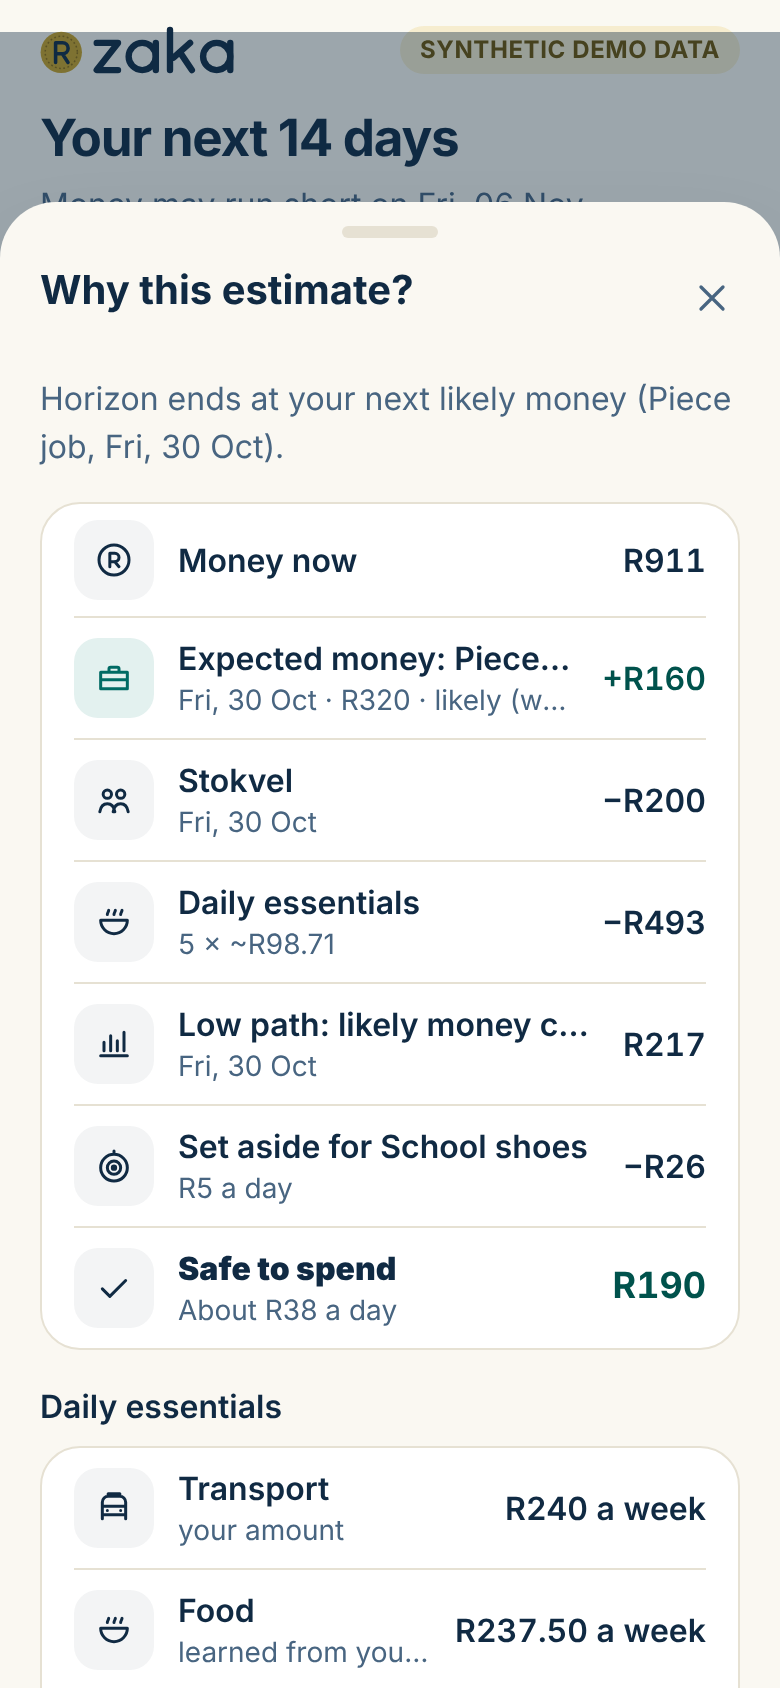
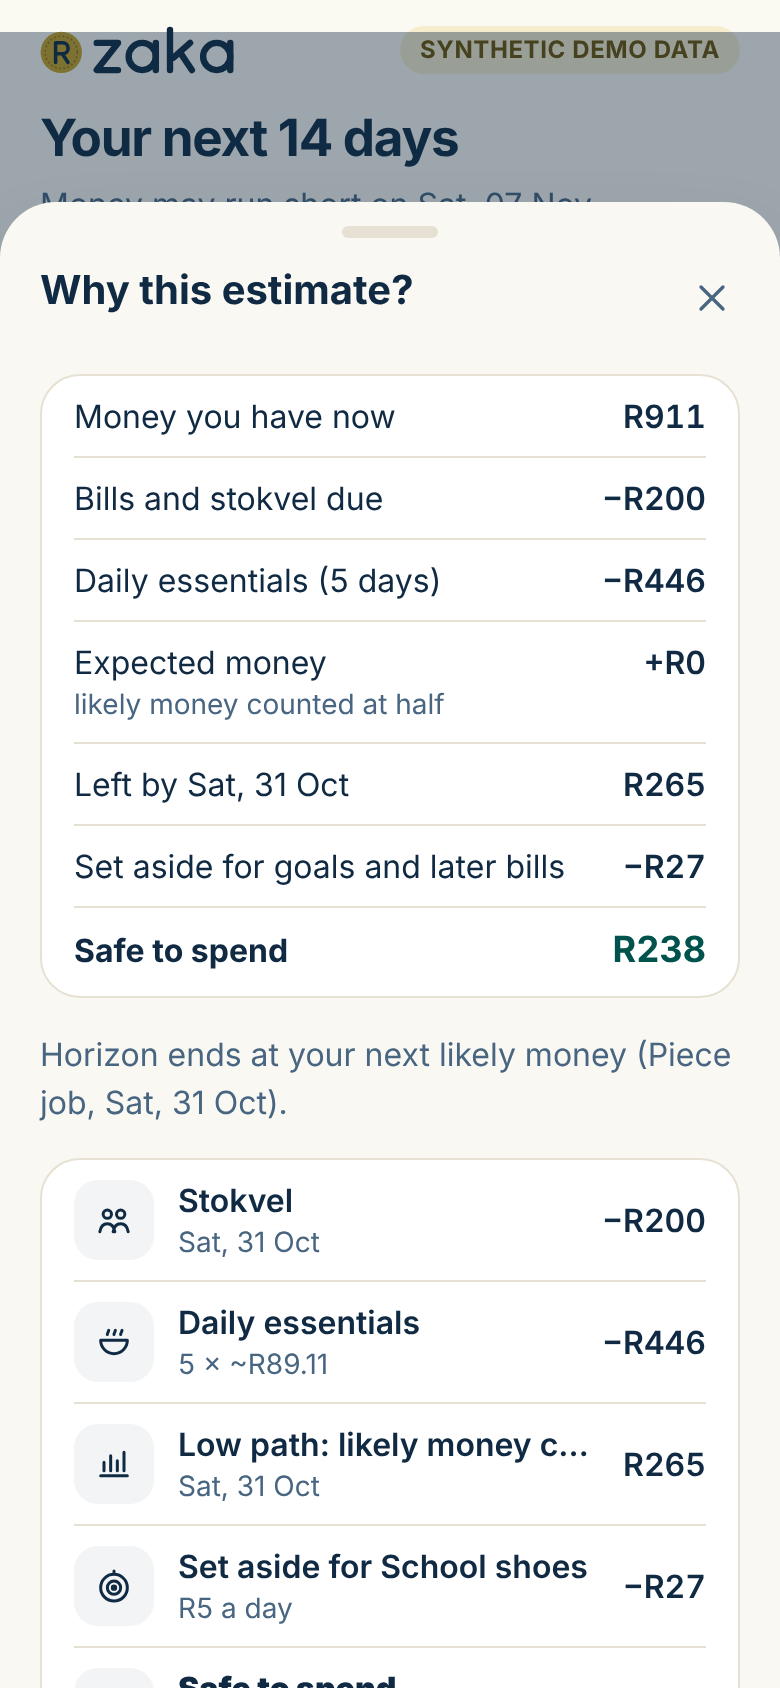
Why this estimate?: one balance line, same income rule and rounding as the breakdown; retake screenshots
The detail list no longer counts money that arrives on the horizon day (the
breakdown above already excludes it), drops the duplicate balance row and uses
the same whole-rand rounding, so both lists agree line by line. Screenshots
retaken (Home and Me now show Money you have now).

Claude-Session: https://claude.ai/code/session_015wCcMjRxotYShFWafBa3hq

Changed region(s): [[0.0308, 0.2156, 0.9538, 1.0], [0.7692, 0.6777, 0.9538, 0.8009], [0.6769, 0.0924, 0.7077, 0.1232]]

diff --git a/src/screens/Plan.tsx b/src/screens/Plan.tsx
@@ -55,35 +55,32 @@ function Bars({ f }: { f: Forecast }) {
 function WhySheet({ f, open, onClose }: { f: Forecast; open: boolean; onClose: () => void }) {
   const { t } = useTranslation();
   const { t: tu } = useTranslation('ui');
-  const horizonIncome = f.income.filter((e) => e.date <= f.horizon_date);
+  // Money arriving ON the horizon day ends the plan and is not counted in it (it must last until that money comes),
+  // so the detail list shows the same income as the breakdown above.
+  const horizonIncome = f.income.filter((e) => (f.horizon_reason === 'income' ? e.date < f.horizon_date : e.date <= f.horizon_date));
   const horizonCosts = f.costs.filter((c) => c.date <= f.horizon_date);
+  // Same whole-rand rounding as the breakdown above, so the two lists agree line by line.
+  const whole = (c: number) => formatRand(Math.round(c / 100) * 100);
   const essTotal = f.days.slice(0, f.horizon_days).reduce((s, d) => s + d.essentials_cents, 0);
   return (
     <Sheet open={open} onClose={onClose} title={t('why')}>
       <div className="space-y-4 text-base">
         <div className="rounded-xl2 border border-line bg-white px-4" data-testid="why-balance">
-          <div className="flex items-baseline justify-between gap-3 py-3">
-            <p className="font-bold text-ink">{tu('balance_now')}</p>
-            <span className="tabular text-lg font-bold">{formatRand(f.balance_cents)}</span>
-          </div>
-        </div>
-        <div className="rounded-xl2 border border-line bg-white px-4">
           <SafeBreakdownList f={f} />
         </div>
         <p className="text-ink-soft">{f.horizon_reason === 'income' && f.horizon_income ? tu('plan_horizon_income', { source: tu(`src_${f.horizon_income.source}`), date: shortDate(f.horizon_income.date) }) : tu('plan_horizon_cap')}</p>
         <div className="divide-y divide-line rounded-xl2 border border-line bg-white px-4">
-          <Row icon="opening_balance" title={tu('balance_now')} right={<span className="tabular font-semibold">{formatRand(f.balance_cents)}</span>} />
           {horizonIncome.map((e, i) => (
             <Row key={`i${i}`} icon={e.source === 'grant' ? 'grant' : 'piece_job'} tone="in" title={`${t('expected_money')}: ${tu(`src_${e.source}`)}`} sub={`${shortDate(e.date)} · ${formatRand(e.amount_cents)} · ${tu(`weight_${e.reliability}`)}`} right={<span className="tabular font-semibold text-teal-dark">+{formatEstimate(e.amount_cents * e.weight)}</span>} />
           ))}
           {horizonCosts.map((c, i) => (
             <Row key={`c${i}`} icon={c.category} title={c.name} sub={shortDate(c.date)} right={<span className="tabular font-semibold">−{formatRand(c.amount_cents)}</span>} />
           ))}
-          <Row icon="food" title={tu('plan_essentials')} sub={`${f.horizon_days} × ~${formatRand(Math.round(essTotal / Math.max(1, f.horizon_days)))}`} right={<span className="tabular font-semibold">−{formatEstimate(essTotal)}</span>} />
+          <Row icon="food" title={tu('plan_essentials')} sub={`${f.horizon_days} × ~${formatRand(Math.round(essTotal / Math.max(1, f.horizon_days)))}`} right={<span className="tabular font-semibold">−{whole(essTotal)}</span>} />
           <Row icon="plan" title={tu('plan_low_path_note').split('.')[0]} sub={shortDate(f.horizon_date)} right={<span className="tabular font-semibold">{formatEstimate(f.min_balance_cents)}</span>} />
           {f.reserve_cents > 0 && <Row icon="savings_goal" title={tu('plan_reserve')} right={<span className="tabular font-semibold">−{formatRand(f.reserve_cents)}</span>} />}
           {f.set_asides.map((a, i) => (
-            <Row key={`s${i}`} icon={a.kind === 'goal' ? 'savings_goal' : 'stokvel'} title={tu('plan_set_aside', { name: a.name })} sub={tu('per_day', { amount: formatEstimate(a.daily_cents) })} right={<span className="tabular font-semibold">−{formatEstimate(a.total_cents)}</span>} />
+            <Row key={`s${i}`} icon={a.kind === 'goal' ? 'savings_goal' : 'stokvel'} title={tu('plan_set_aside', { name: a.name })} sub={tu('per_day', { amount: formatEstimate(a.daily_cents) })} right={<span className="tabular font-semibold">−{whole(a.total_cents)}</span>} />
           ))}
           <Row icon="check" title={<strong>{tu('plan_result')}</strong>} sub={t('daily', { amount: formatEstimate(f.daily_cents) })} right={<strong className="tabular text-lg text-teal-dark">{formatEstimate(f.safe_cents)}</strong>} />
         </div>
